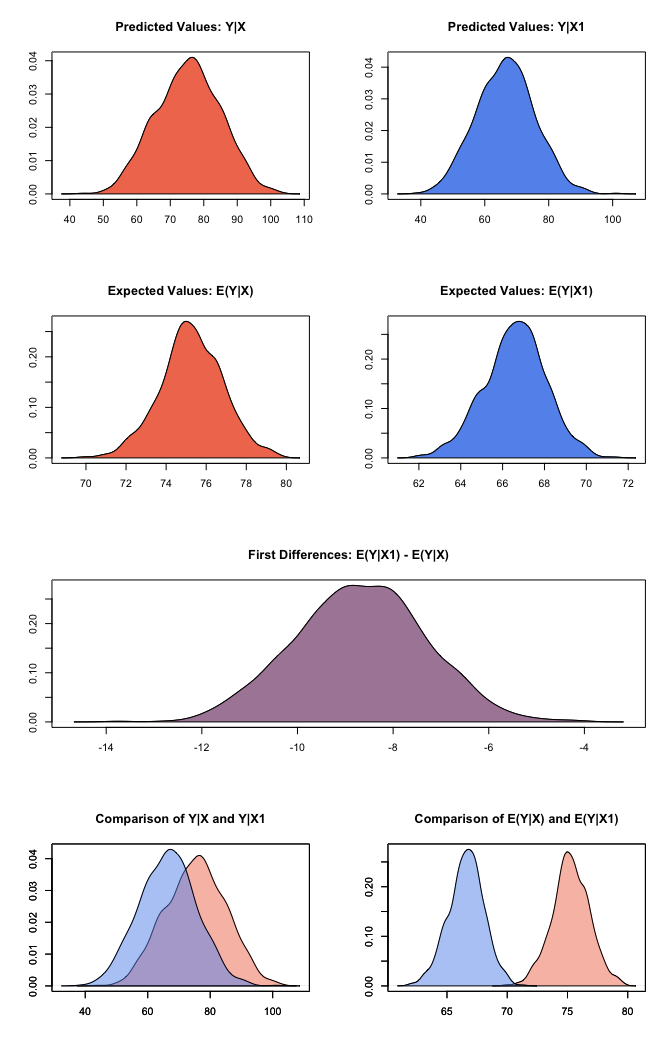
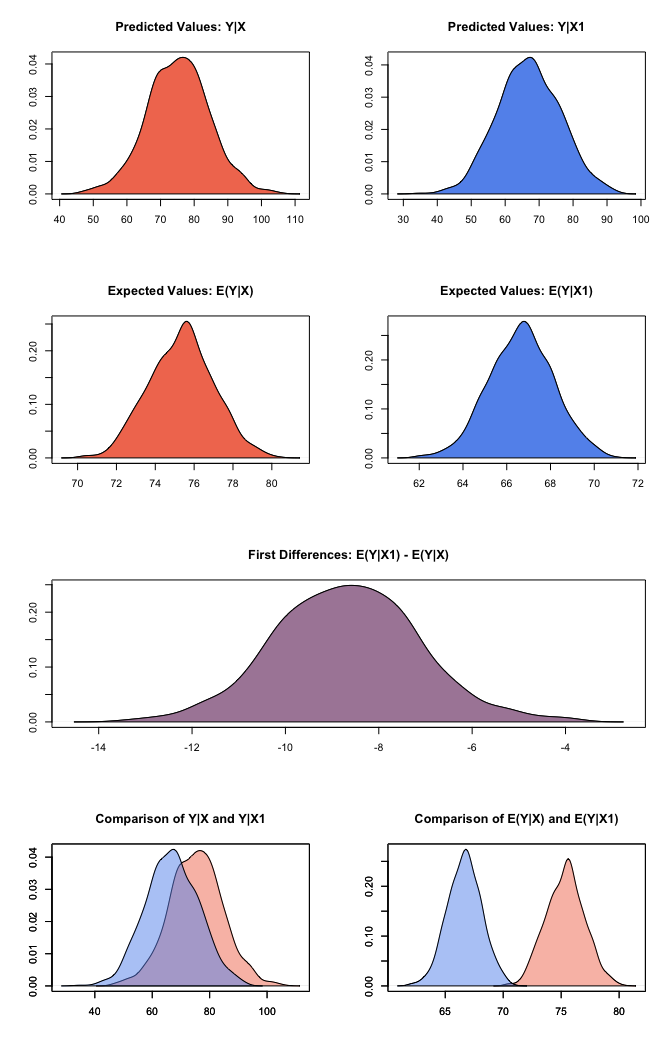
graph method works with ci.plot
minor is_simsx man update

diff --git a/README.md b/README.md
@@ -156,22 +156,22 @@ After setting our predictor value, we simulate using the `sim()` method:
     ##  -----
     ## ev
     ##       mean       sd      50%     2.5%    97.5%
-    ## 1 75.27288 1.555114 75.25768 72.10674 78.29407
+    ## 1 75.35044 1.654468 75.43807 72.23306 78.60472
     ## pv
     ##          mean       sd      50%     2.5%    97.5%
-    ## [1,] 75.35558 9.603978 75.60731 56.68893 93.09457
+    ## [1,] 75.25555 9.272676 75.31499 56.94588 94.03291
     ## 
     ##  sim x1 :
     ##  -----
     ## ev
-    ##       mean       sd     50%     2.5%   97.5%
-    ## 1 66.58746 1.477427 66.6462 63.53562 69.4124
+    ##       mean       sd      50%     2.5%    97.5%
+    ## 1 66.66327 1.470476 66.69646 63.76243 69.50197
     ## pv
-    ##          mean       sd      50%     2.5%    97.5%
-    ## [1,] 66.54054 9.149655 66.61737 48.81021 84.46248
+    ##          mean       sd     50%     2.5%    97.5%
+    ## [1,] 66.96022 9.248777 66.9195 49.65306 85.56917
     ## fd
     ##        mean       sd       50%      2.5%     97.5%
-    ## 1 -8.685425 1.371735 -8.682234 -11.32805 -6.046019
+    ## 1 -8.687168 1.549928 -8.691556 -11.68247 -5.413865
 
 At this point, we’ve estimated a model, set the predictor value, and
 estimated easily interpretable quantities of interest. The `summary()`
@@ -193,14 +193,17 @@ We can also simulate and plot simulations from ranges of simulated
 values. For example, first use the `setrange` method to set a range of
 fitted values for one of the covariates and draw simulations as before:
 
+    z5 <- zls$new()
+    z5$zelig(Fertility ~ Education, data = swiss)
+
     # set Education to range from 5 to 15 at single integer increments
     z5$setrange(Education = 5:15)
 
     # run simulations and estimate quantities of interest
     z5$sim()
 
-Then pass the Zelig object to the `ci.plot` function:
+Then use the `graph()` method as before:
 
-    ci.plot(z5)
+    z5$graph()
 
 ![](README_files/figure-markdown_strict/example_plot_ci_plot-1.png)
